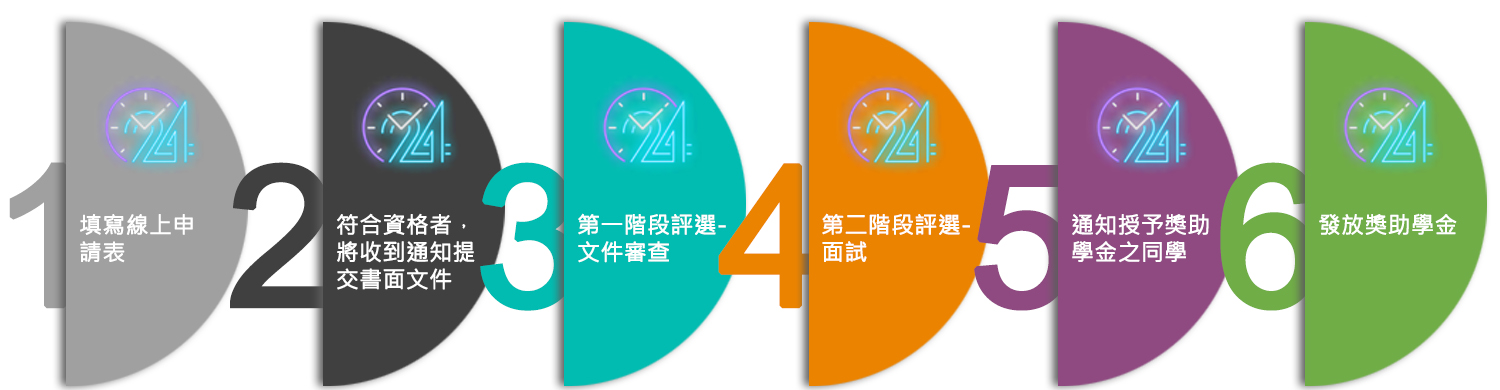
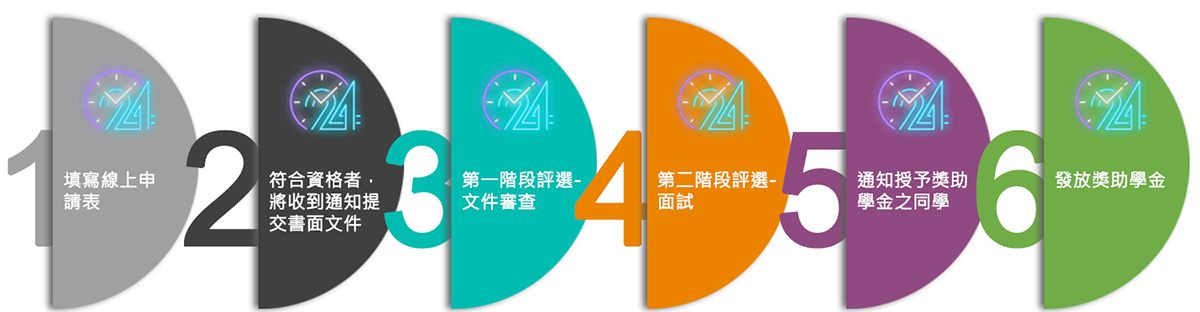
220

diff --git a/index.html b/index.html
@@ -40,17 +40,25 @@ a:active {
 <body>
 <table width="1500" border="0" align="center" cellpadding="0" cellspacing="0">
   <tr>
-    <td colspan="2">&nbsp;</td>
-    <td colspan="2" rowspan="11" align="center"><p><img src="images/02-1.jpg" width="850" height="580" border="0" /></p>
-    <p><img src="images/02.jpg" width="50" height="32" border="0" />　<span class="t10">我要申請.....</span></p>
-    <p><span class="t1">ONLINE APPLICATION FORM</span><br />
-      <a href="https://career.compal.com/StudentApply.aspx" target="_blank">獎助學金線上申請表</a>
-    </p></td>
-    <td colspan="2" align="right" valign="bottom">&nbsp;</td>
+    <td width="25%" colspan="2">&nbsp;</td>
+    <td colspan="2" rowspan="11" align="center"><img src="images/02-1.jpg" width="700" height="478" border="0" />
+      <table width="35%" border="0" cellspacing="0" cellpadding="0">
+        <tr>
+          <td align="left"><img src="images/02.jpg" width="50" height="32" border="0" />　<span class="t10">我要申請.....</span></td>
+        </tr>
+        <tr>
+          <td align="left"><span class="t1">ONLINE APPLICATION FORM</span></td>
+        </tr>
+        <tr>
+          <td align="left"><a href="https://career.compal.com/StudentApply.aspx" target="_blank">獎助學金線上申請表</a></td>
+        </tr>
+      </table>
+      </td>
+    <td width="25%" colspan="2" align="right" valign="bottom">&nbsp;</td>
   </tr>
   <tr>
     <td colspan="2" class="t8">專注學習 仁寶挺你<br />
-    <span class="t2">BACK YOU UP</span></td>
+    <span class="t2-1">BACK YOU UP</span></td>
     <td colspan="2" align="right" valign="bottom"><img src="images/LOGO 18.JPG" width="200" height="200" border="0" /></td>
   </tr>
   <tr>
@@ -129,7 +137,7 @@ a:active {
     </table></td>
   </tr>
   <tr>
-    <td colspan="2" valign="middle">&nbsp;</td>
+    <td width="15" colspan="2" valign="middle">&nbsp;</td>
   </tr>
 </table>
 </body>

diff --git a/Process.html b/Process.html
@@ -108,7 +108,7 @@ a:active {
     <td>&nbsp;</td>
   </tr>
   <tr>
-    <td colspan="3" align="center" valign="top"><img src="images/03.jpg" width="1500" height="390" border="0" /></td>
+    <td colspan="3" align="center" valign="top"><img src="images/03.jpg" width="1200" height="312" border="0" /></td>
   </tr>
   <tr>
     <td>&nbsp;</td>

diff --git a/css/sls.css b/css/sls.css
@@ -8,6 +8,11 @@
 	font-size: 30px;
 	color: #000;
 }
+.t2-1 {
+	font-family: "Arial Black";
+	font-size: 34px;
+	color: #000;
+}
 .t3 {
 	font-family: "Arial Black";
 	font-size: 24px;
